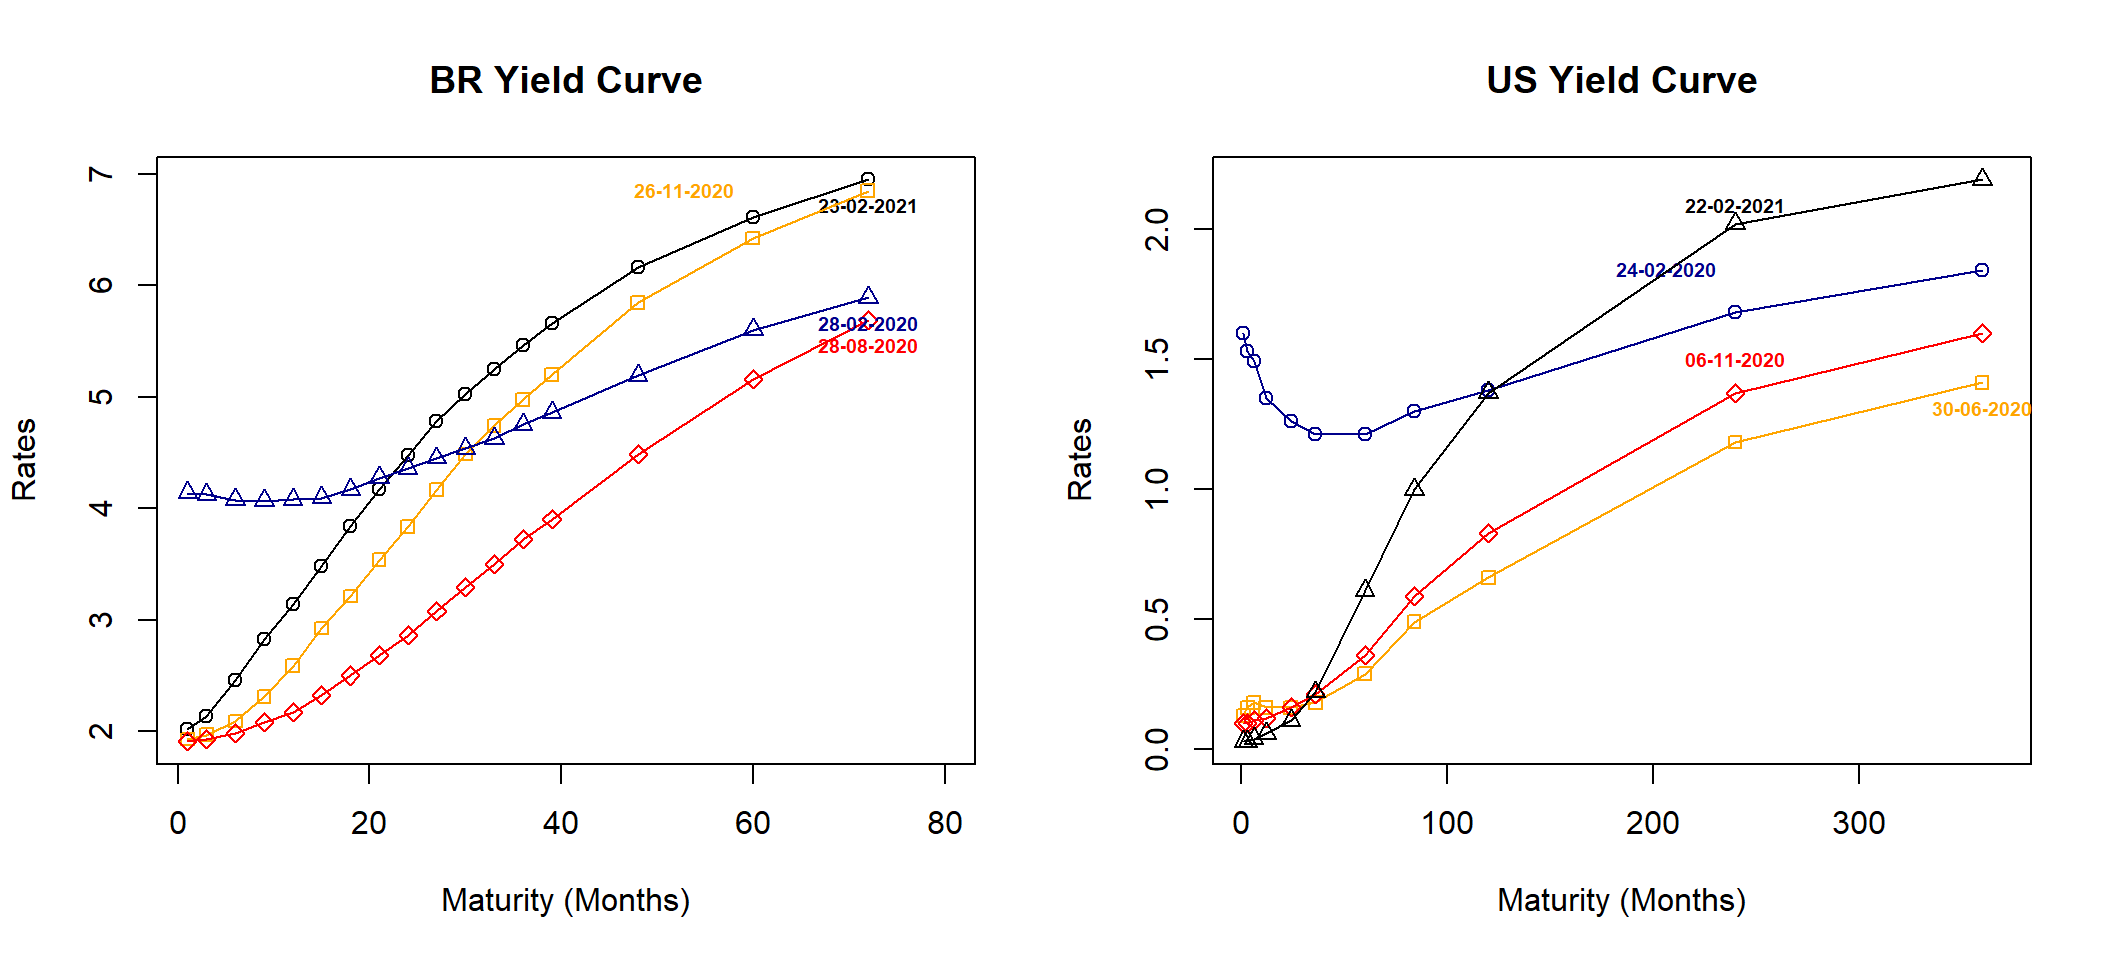
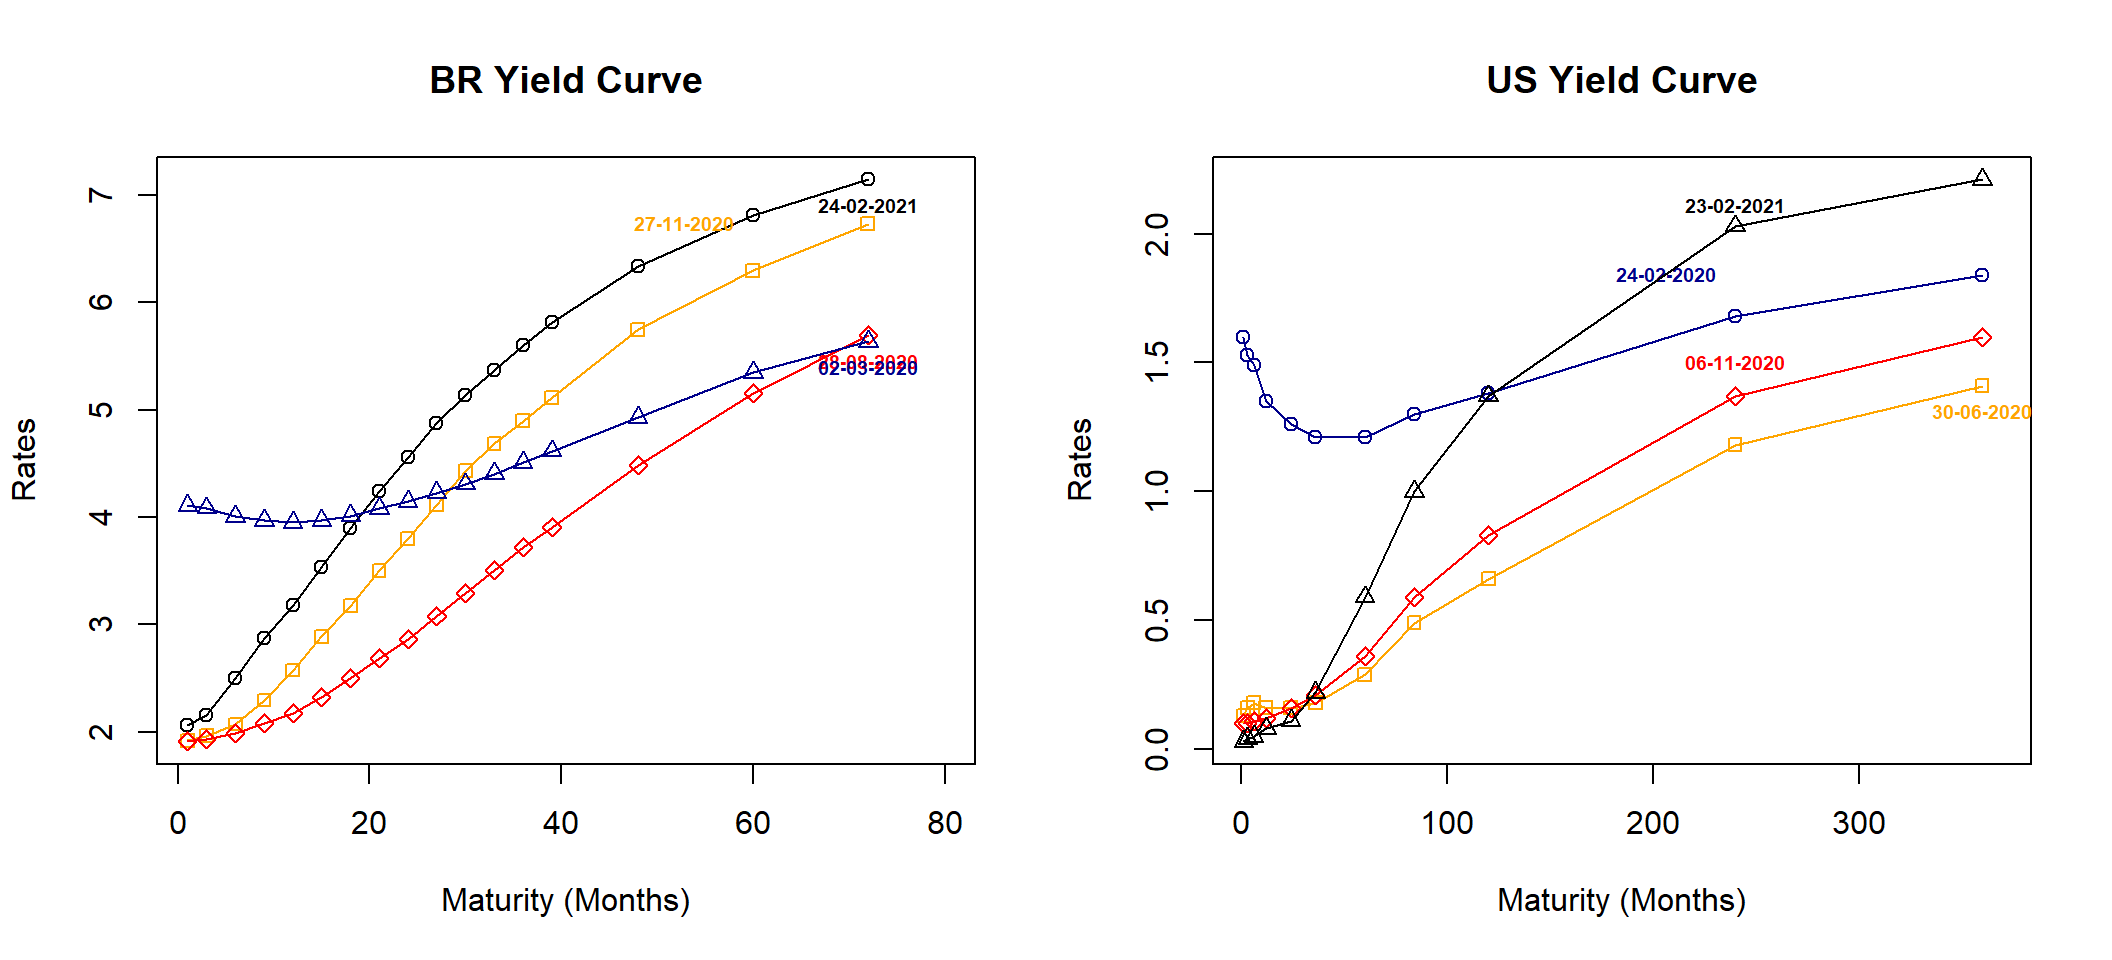
Add files via upload

diff --git a/index.html b/index.html
@@ -326,7 +326,7 @@ $(document).ready(function () {
 
 
 <h1 class="title toc-ignore">Yield Curves of BR, US, CN, and RU</h1>
-<h4 class="date">24/02/2021</h4>
+<h4 class="date">25/02/2021</h4>
 
 </div>
 
